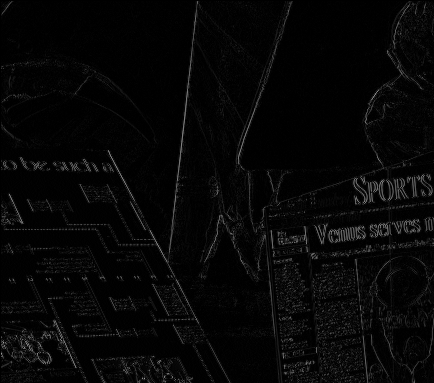
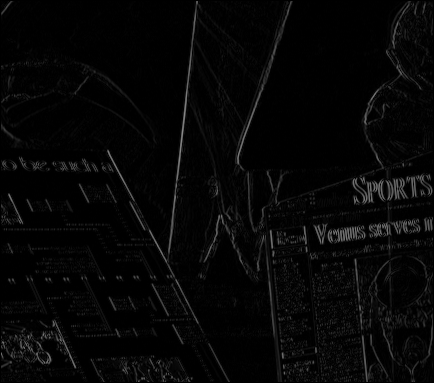
refactor: Update Sobel filter in motion_estimator.py

diff --git a/hw11/codes/tempCodeRunnerFile.py b/hw11/codes/tempCodeRunnerFile.py
@@ -1,8 +1,9 @@
-k = 0.6
-sobel_x = np.array([[0, 0, 0], [-1, 0, 1], [0, 0, 0]])
+sobel_x = np.array([[1, 0, -1], 
+                    [2, 0, -2], 
+                    [1, 0, -1]])
 # Sobel filter in y direction
-sobel_y = np.array([[0, 1, 0], [0, 0, 0], [0, -1, 0]])
+sobel_y = np.array([[1, 2, 1], [0, 0, 0], [-1, -2, -1]]) * 0
 for y in range(1, h-1):
     for x in range(1, w-1):
-        I2x[y, x] = np.sum(I2[y-1:y+2, x-1:x+2] * sobel_x * k)
-        I2y[y, x] = np.sum(I2[y-1:y+2, x-1:x+2] * sobel_y * k)
+        I2x[y, x] = np.sum(I2[y-1:y+2, x-1:x+2] * sobel_x) * 0.5
+        I2y[y, x] = np.sum(I2[y-1:y+2, x-1:x+2] * sobel_y)

diff --git a/hw11/codes/motion_estimator.py b/hw11/codes/motion_estimator.py
@@ -33,7 +33,9 @@ for y in range(1, h):
 
 # use sobel filter to compute the gradient
 # Sobel filter in x direction
-# sobel_x = np.array([[0, 0, -0], [2, 0, -2], [0, 0, -0]])
+# sobel_x = np.array([[1, 0, -1], 
+#                     [2, 0, -2], 
+#                     [1, 0, -1]])
 # # Sobel filter in y direction
 # sobel_y = np.array([[1, 2, 1], [0, 0, 0], [-1, -2, -1]]) * 0
 # for y in range(1, h-1):
